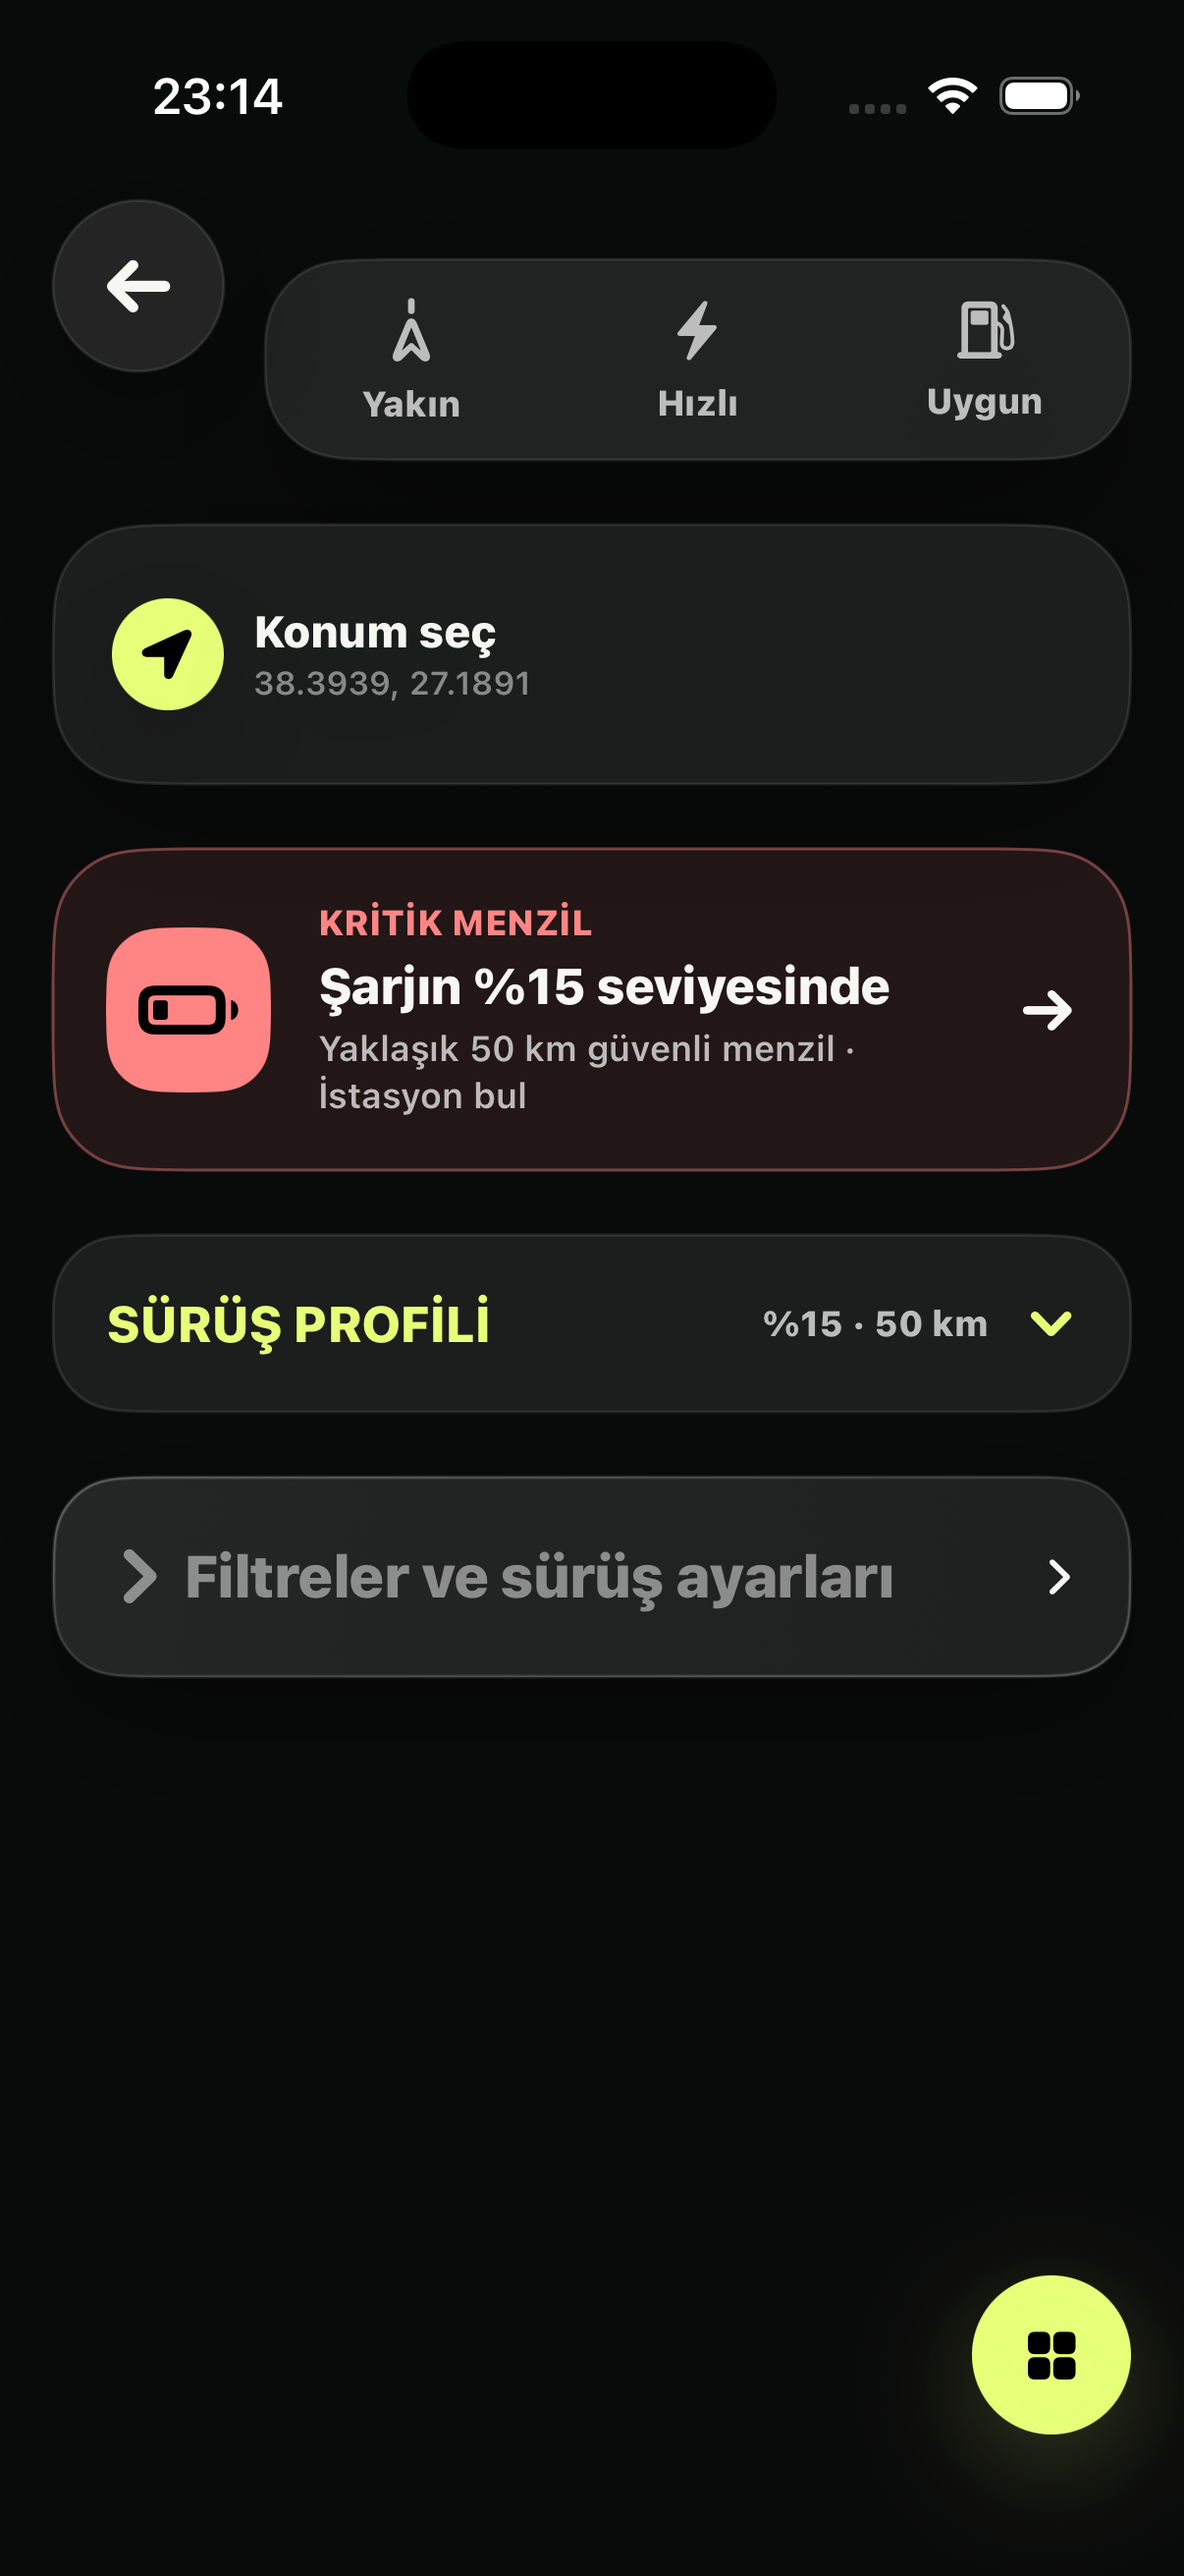
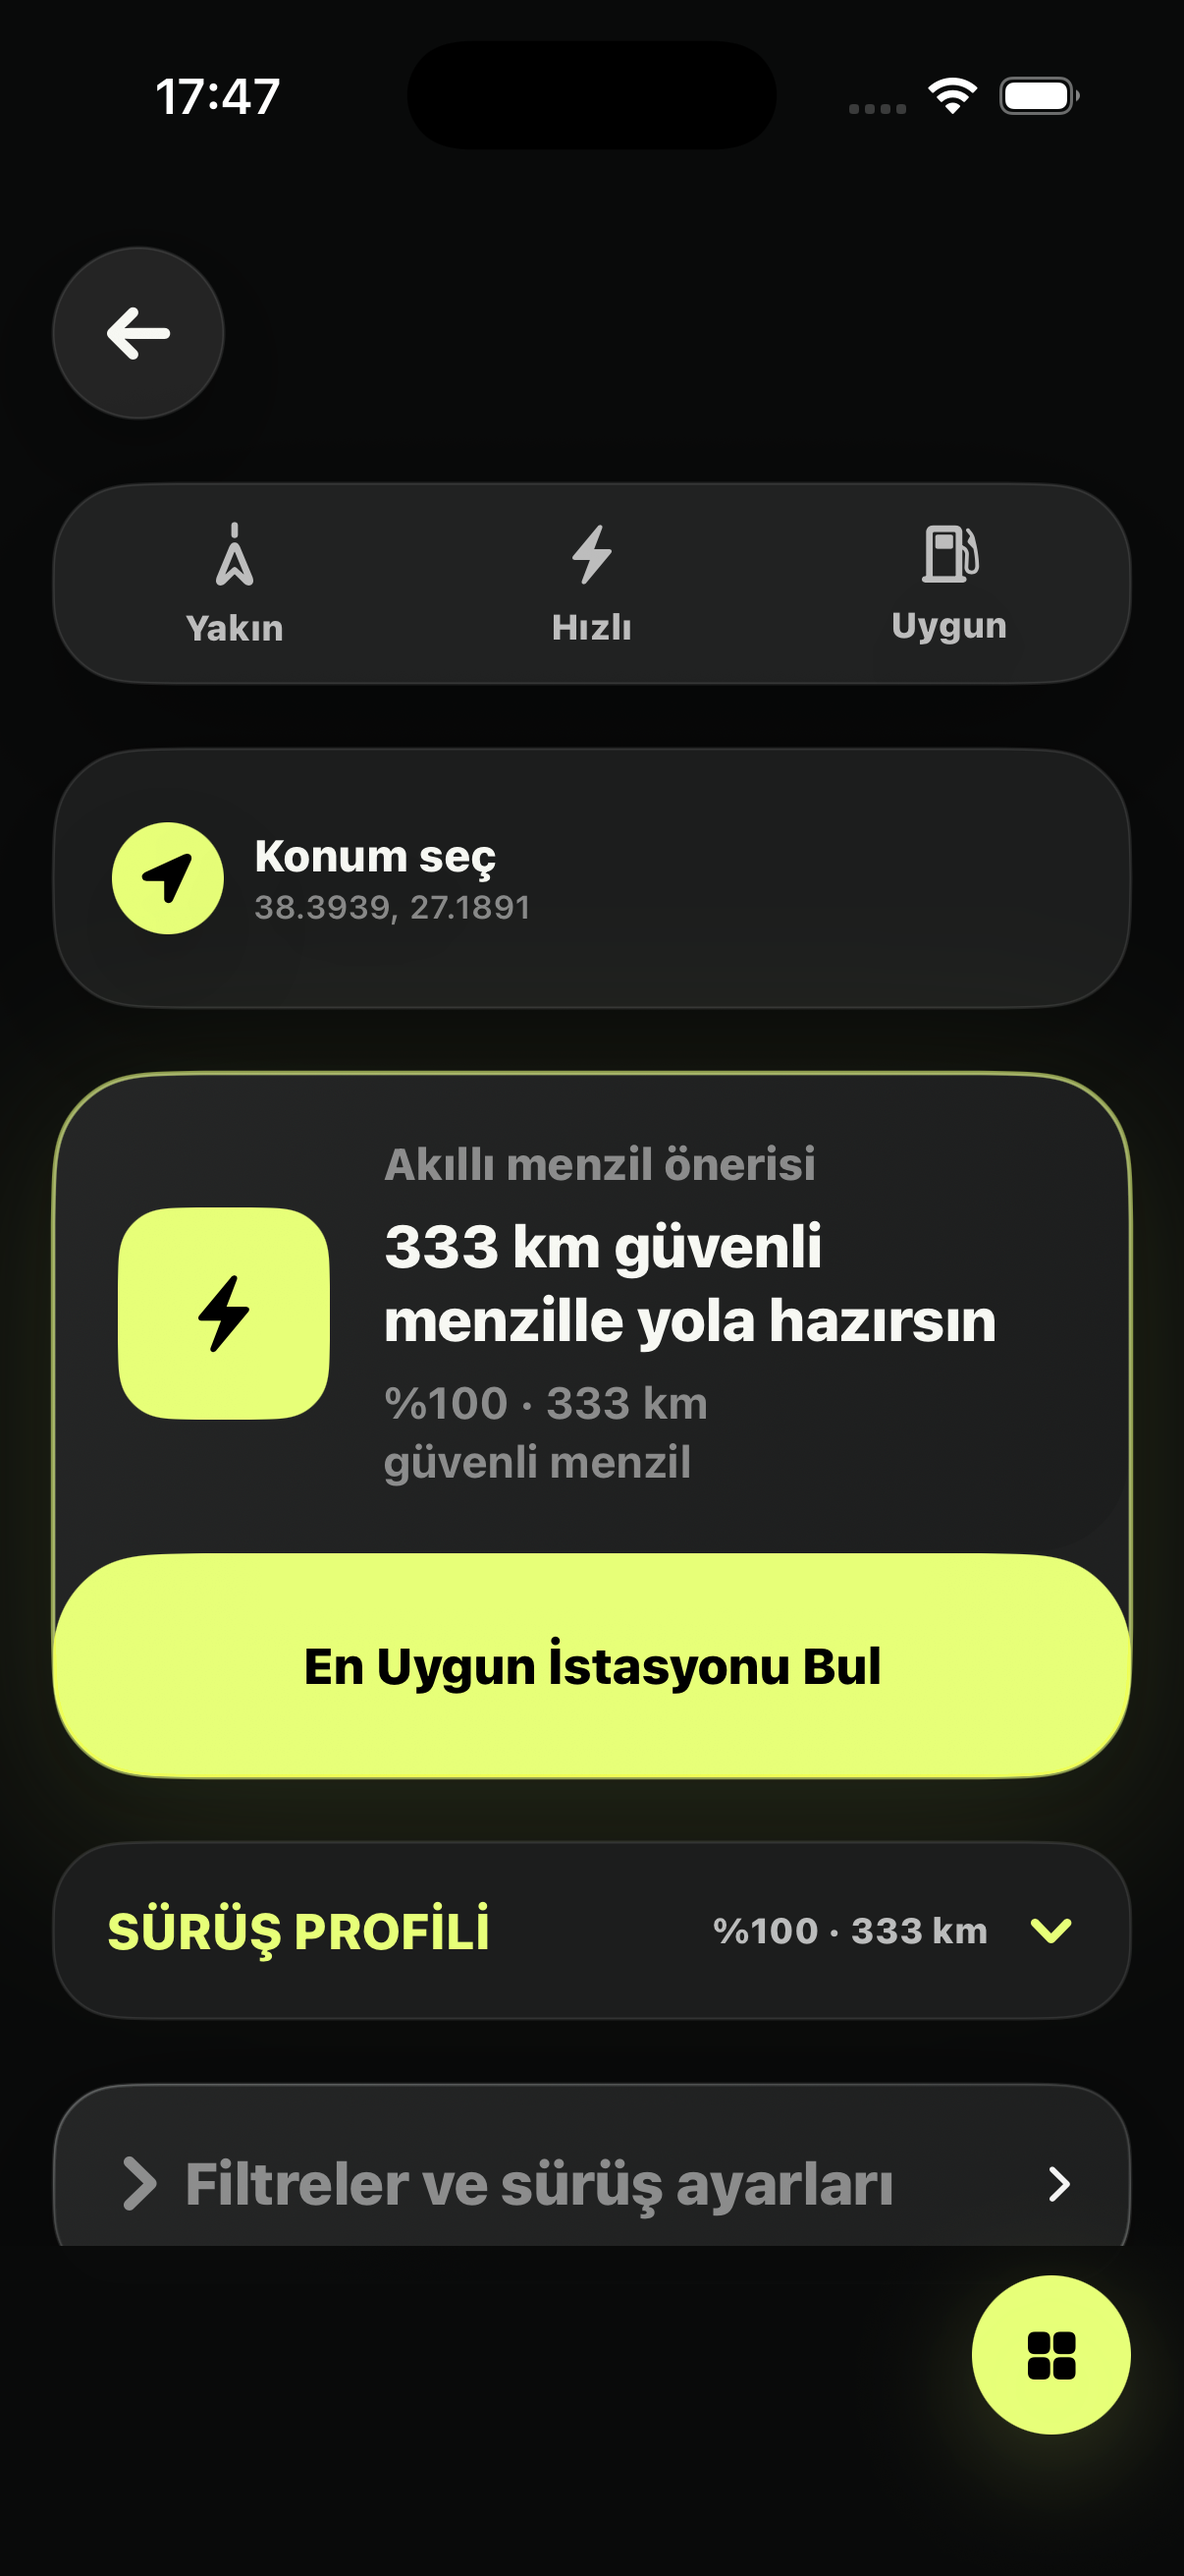
Polish home layout and navigation order

diff --git a/SarjBul/App/RootView.swift b/SarjBul/App/RootView.swift
@@ -14,6 +14,7 @@ struct RootView: View {
     @Environment(ContextIntelligenceStore.self) private var contextIntelligence
     @Environment(OfflineSyncCoordinator.self) private var offlineSync
     @State private var bottomNavigationExpanded = false
+    @State private var didSetInitialTab = false
     @Environment(\.accessibilityReduceMotion) private var reduceMotion
 
     var body: some View {
@@ -38,6 +39,7 @@ struct RootView: View {
         .tint(SBColor.signal)
         .preferredColorScheme(.dark)
         .task {
+            setInitialTabIfNeeded()
             await chargingSession.prepare()
             await search.prepare()
             await offlineSync.syncPending()
@@ -137,8 +139,8 @@ struct RootView: View {
     private var expandedBottomNavigation: some View {
         HStack(spacing: 8) {
             tabButton(.home)
-            tabButton(.lounge)
             tabButton(.routes)
+            tabButton(.lounge)
             tabButton(.account)
         }
         .padding(7)
@@ -147,6 +149,21 @@ struct RootView: View {
         .padding(.horizontal, 16)
         .padding(.bottom, 12)
         .shadow(color: .black.opacity(0.54), radius: 26, x: 0, y: 16)
+    }
+
+    private func setInitialTabIfNeeded() {
+        guard !didSetInitialTab else { return }
+        didSetInitialTab = true
+
+        #if DEBUG
+        let arguments = ProcessInfo.processInfo.arguments
+        let forcedPreview = arguments.contains { argument in
+            argument.hasPrefix("--ui-testing-") && argument != "--ui-testing-default-launch"
+        }
+        guard !forcedPreview else { return }
+        #endif
+
+        navigation.select(.home)
     }
 
     private var collapsedBottomNavigation: some View {

diff --git a/SarjBul/Features/Home/HomeView.swift b/SarjBul/Features/Home/HomeView.swift
@@ -31,6 +31,7 @@ struct HomeView: View {
 
                 ScrollView {
                     VStack(alignment: .leading, spacing: 22) {
+                        homeHeader
                         topControls
                         if search.userLocation?.source != .device {
                             locationInput
@@ -68,12 +69,6 @@ struct HomeView: View {
                 }
                 .scrollIndicators(.hidden)
                 .sensoryFeedback(.selection, trigger: settings.filters.preference)
-
-                SBBackButton(accessibilityLabel: settings.t("nav.back")) {
-                    navigation.tab = .account
-                }
-                .padding(.leading, 18)
-                .padding(.top, 6)
             }
             .animation(.easeInOut(duration: 0.24), value: search.userLocation?.source)
             .accessibilityIdentifier("home-screen")
@@ -116,6 +111,15 @@ struct HomeView: View {
         }
     }
 
+    private var homeHeader: some View {
+        HStack {
+            SBBackButton(accessibilityLabel: settings.t("nav.back")) {
+                navigation.tab = .account
+            }
+            Spacer(minLength: 0)
+        }
+    }
+
     private var topControls: some View {
         HStack(spacing: 10) {
             preferenceButton(.nearest, icon: "location.north.line")
@@ -129,8 +133,8 @@ struct HomeView: View {
                 .stroke(SBColor.line, lineWidth: 1)
         )
         .sbCardShadow()
-        .padding(.leading, 72)
-        .padding(.top, 4)
+        .frame(maxWidth: .infinity)
+        .accessibilityIdentifier("home-preference-card")
     }
 
     private var activeChargingContextCard: some View {

diff --git a/SarjBulUITests/AppSmokeUITests.swift b/SarjBulUITests/AppSmokeUITests.swift
@@ -18,6 +18,14 @@ final class AppSmokeUITests: XCTestCase {
         XCTAssertFalse(app.staticTexts["Hedef ekle"].exists)
     }
 
+    func testStandardLaunchAlwaysStartsOnHome() throws {
+        let app = XCUIApplication()
+        app.launchArguments = ["--ui-testing-default-launch"]
+        app.launch()
+
+        XCTAssertTrue(app.descendants(matching: .any)["home-screen"].waitForExistence(timeout: 12))
+    }
+
     func testManualLocationInputHidesWhenDeviceLocationIsAvailable() throws {
         let app = XCUIApplication()
         app.launchArguments = ["--ui-testing-device-location"]
@@ -99,7 +107,16 @@ final class AppSmokeUITests: XCTestCase {
         openNavigation.tap()
 
         let home = app.buttons["bottom-navigation-tab-home"]
+        let routes = app.buttons["bottom-navigation-tab-routes"]
+        let lounge = app.buttons["bottom-navigation-tab-lounge"]
+        let profile = app.buttons["bottom-navigation-tab-account"]
         XCTAssertTrue(home.waitForExistence(timeout: 5))
+        XCTAssertTrue(routes.exists)
+        XCTAssertTrue(lounge.exists)
+        XCTAssertTrue(profile.exists)
+        XCTAssertLessThan(home.frame.minX, routes.frame.minX)
+        XCTAssertLessThan(routes.frame.minX, lounge.frame.minX)
+        XCTAssertLessThan(lounge.frame.minX, profile.frame.minX)
         home.tap()
 
         XCTAssertTrue(app.descendants(matching: .any)["home-screen"].waitForExistence(timeout: 10))

diff --git a/Scripts/render_readme_preview.py b/Scripts/render_readme_preview.py
@@ -11,10 +11,10 @@ SCREENSHOT_DIR = ROOT / "Docs" / "screenshots"
 OUTPUT = SCREENSHOT_DIR / "sarjbul-ios-preview.png"
 TOKENS_PATH = ROOT / "SarjBul" / "Resources" / "design-tokens.json"
 SCREENS = (
-    ("account.png", "Profil"),
     ("home.png", "Ana sayfa"),
     ("routes.png", "Rotalar"),
     ("lounge.png", "Salon"),
+    ("account.png", "Profil"),
 )
 
 
